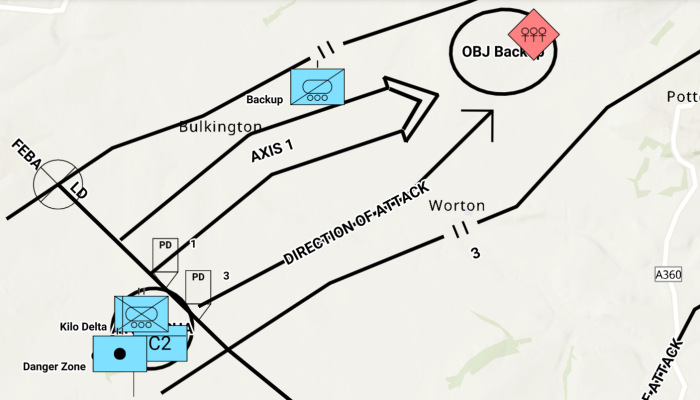
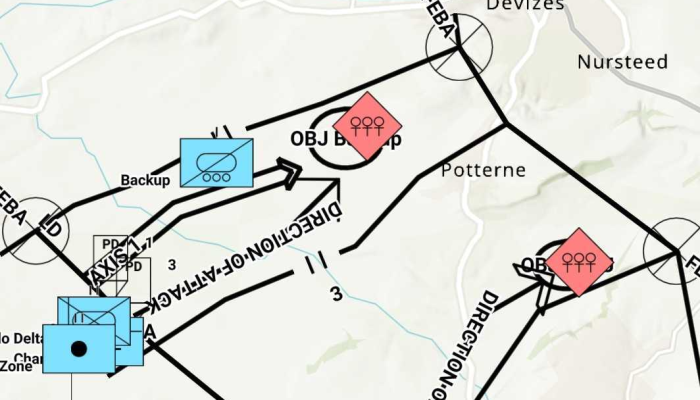
Added fix

diff --git a/kotlin/dictionary-renderer-with-graphics-overlay/src/main/java/com/esri/arcgisruntime/sample/dictionaryrendererwithgraphicsoverlay/MainActivity.kt b/kotlin/dictionary-renderer-with-graphics-overlay/src/main/java/com/esri/arcgisruntime/sample/dictionaryrendererwithgraphicsoverlay/MainActivity.kt
@@ -81,9 +81,9 @@ class MainActivity : AppCompatActivity() {
             dictionarySymbolStyle.addDoneLoadingListener {
                 if (dictionarySymbolStyle.loadStatus == LoadStatus.LOADED) {
                     // find the first configuration setting which has the property name "model",
-                    // and set its value to "ORDERED ANCHOR POINT"
+                    // and set its value to "ORDERED ANCHOR POINTS"
                     dictionarySymbolStyle.configurations
-                        .first { it.name.equals("model") }.value = "ORDERED ANCHOR POINT"
+                        .first { it.name.equals("model") }.value = "ORDERED ANCHOR POINTS"
                     // create a new dictionary renderer from the dictionary symbol style to render graphics
                     // with symbol dictionary attributes and set it to the graphics overlay renderer
                     val dictionaryRenderer = DictionaryRenderer(dictionarySymbolStyle)

diff --git a/kotlin/dictionary-renderer-with-graphics-overlay/README.md b/kotlin/dictionary-renderer-with-graphics-overlay/README.md
@@ -32,7 +32,7 @@ Run the sample and view the military symbols on the map.
 
 ## Offline Data
 
-1. Download the data [Mil2525DMessages.zip](https://www.arcgis.com/home/item.html?id=623382e0113d40698538f249e3bcb1c0) 
+1. Download the data [Mil2525DMessages.zip](https://www.arcgis.com/home/item.html?id=8776cfc26eed4485a03de6316826384c)
 2. Extract the downloaded zip file to retrieve the file "Mil2525DMessages.xml".
 3. Open your command prompt and navigate to the folder where you extracted the contents of the data from step 1.
 4. Push the data into the scoped storage of the sample app:
